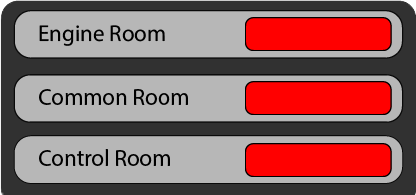
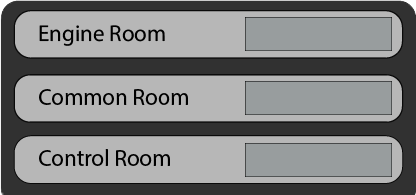
Progress bar for engine room fills up

Changed region(s): [[0.5625, 0.7077, 0.9688, 0.9231], [0.5625, 0.4, 0.9688, 0.6154], [0.5625, 0.0615, 0.9688, 0.2769]]

diff --git a/scripts/UIScene.js b/scripts/UIScene.js
@@ -4,6 +4,10 @@ class UIScene extends Phaser.Scene{
     }
     preload(){
         this.fuseVertical;
+        this.engineRoomProgressRecWidth = 0;
+        this.engineRoomProgressRec;
+        this.counterForValve = 0;
+        this.counterForLevers = 0;
 
         this.load.image('UIInventory', 'assets/UIInventory.png');
         this.load.image('UIRoomStatus', 'assets/UIRoomStatus.png');
@@ -15,6 +19,7 @@ class UIScene extends Phaser.Scene{
         var UIRoomStatus = this.add.image(1050, 265, 'UIRoomStatus').setInteractive();
         var UIPlayerCards = this.add.image(400, 290, 'UIPlayerCards').setInteractive();
         this.fuseVertical = this.add.image(639, 263, 'fuseVertical').setInteractive();
+        this.engineRoomProgressRec = this.add.rectangle(1070, 240, this.engineRoomProgressRecWidth, 10, 0x32FF00);
 
         //assets visibility
         this.fuseVertical.setVisible(false);
@@ -25,9 +30,16 @@ class UIScene extends Phaser.Scene{
         UIPlayerCards.setScale(0.5);
         this.fuseVertical.setScale(0.4);
     }
+
     update(){
-        if(foundFuse === true){
+        if(foundFuse === true && this.counterForValve === 0){
+            this.counterForValve++;
             this.fuseVertical.setVisible(true);
+            this.engineRoomProgressRec.width += 23;
+        }
+        if(isLeverPuzzleSolved === true && this.counterForLevers === 0){
+            this.counterForLevers++;
+            this.engineRoomProgressRec.width += 23;
         }
     }
 }

diff --git a/scripts/EngineRoom.js b/scripts/EngineRoom.js
@@ -14,6 +14,7 @@ var hintLightRed;
 var hintLightGreen;
 var waterPresureCode;
 var waterPresureWarning = "Emergency";
+var isLeverPuzzleSolved = false;
 var leverSet;
 var foundFuse = false;
 var randomOxygenNr;
@@ -27,7 +28,6 @@ class EngineRoom extends Phaser.Scene {
         this.oxygenGauge;
         this.oxygenGaugeText = 0;
         this.oxygenGaugeWidthPercentage = 0;
-        this.isPuzzleSolved = false;
         this.counter = 0; // counters are used to break out of update loop
         this.fuseCounter = 0;
         this.fuse;
@@ -390,9 +390,9 @@ class EngineRoom extends Phaser.Scene {
 
     update() {
         if (lever1Position == waterGauge1 && lever2Position == waterGauge2 && lever3Position == waterGauge3 && lever4Position == waterGauge4) {
-            this.isPuzzleSolved = true;
+            isLeverPuzzleSolved = true;
             this.counter++;
-            if(this.isPuzzleSolved === true && this.counter == 1){
+            if(isLeverPuzzleSolved === true && this.counter == 1){
                 waterPresureCode.setText(this.getDoorCode());
                 this.counter++;
             }
